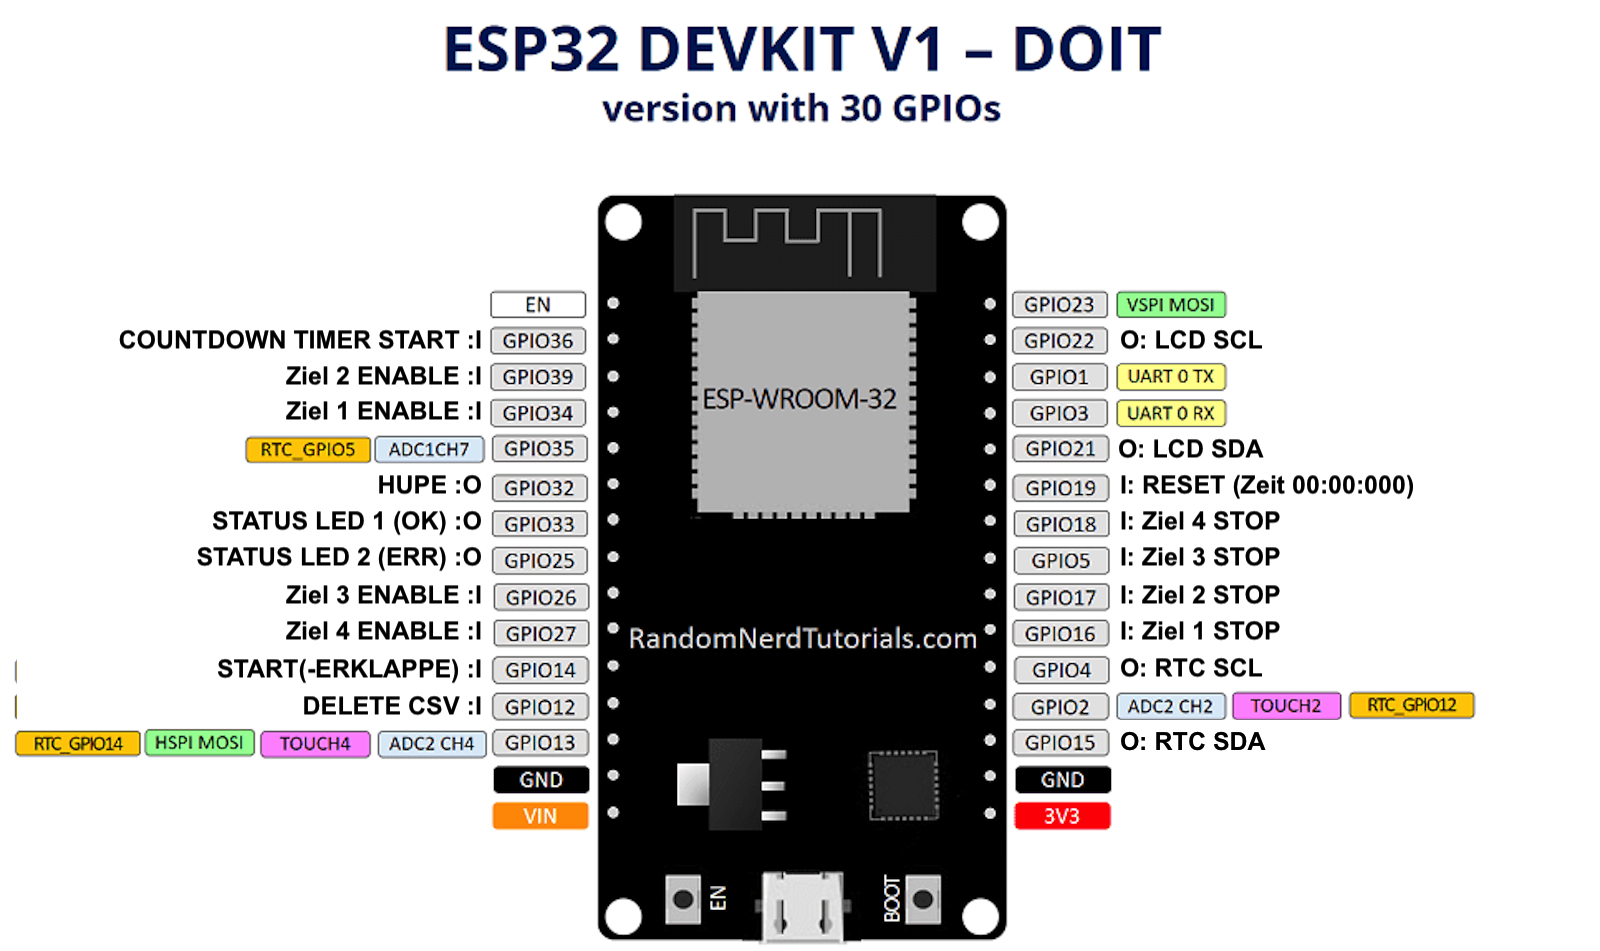
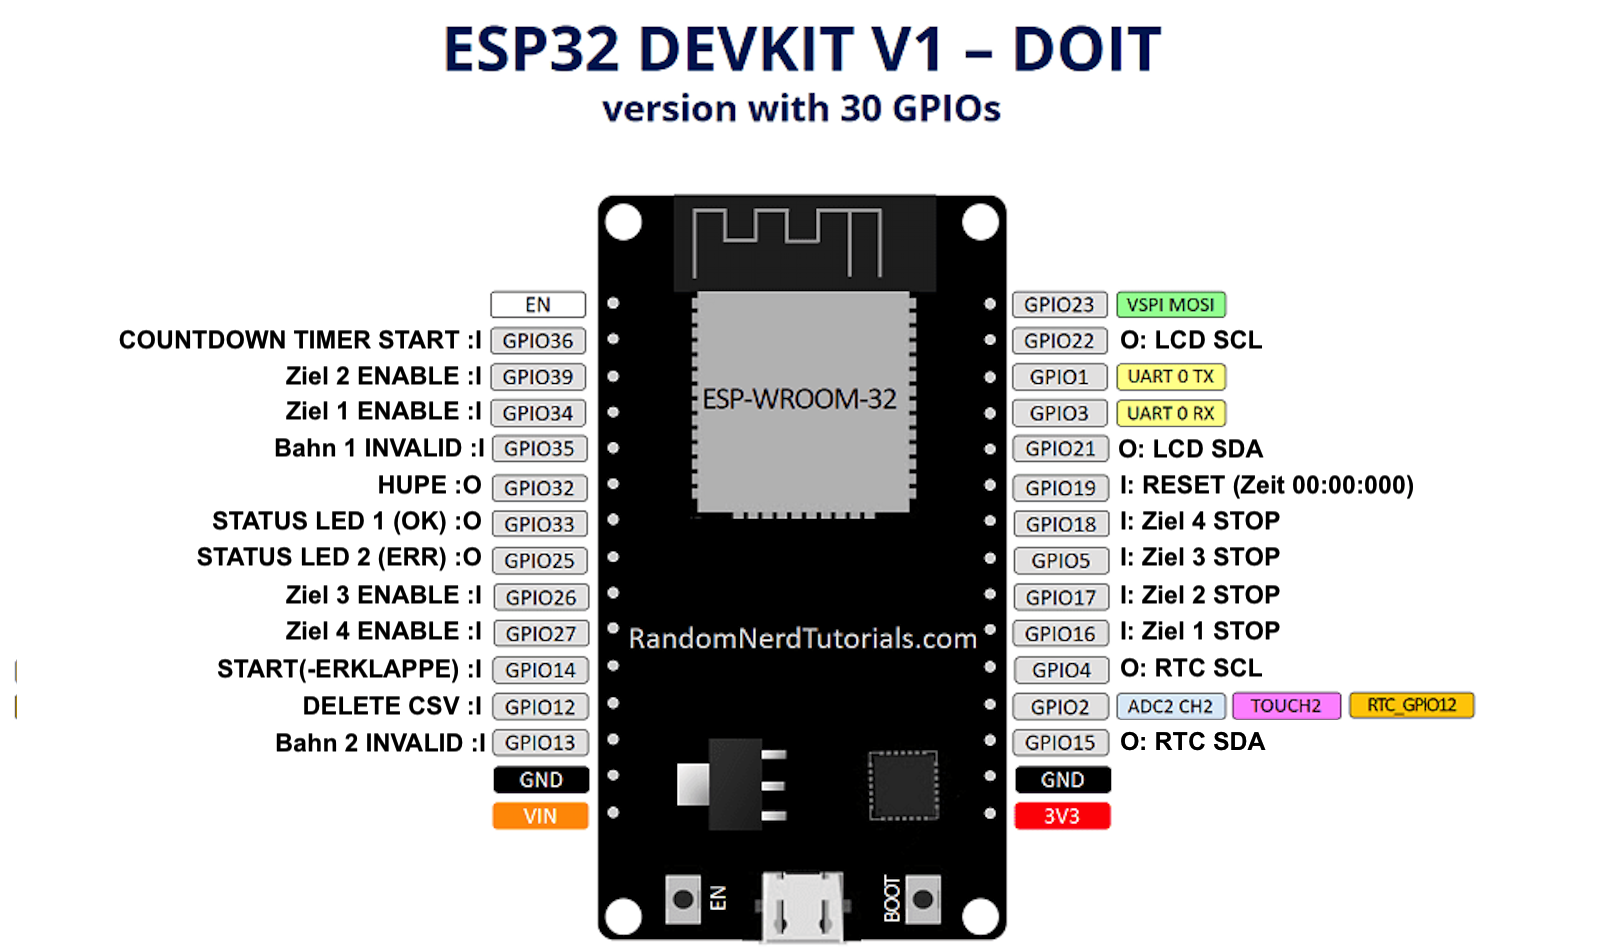
code changes

Changed region(s): [[0.0, 0.7624, 0.3125, 0.8233], [0.1562, 0.4574, 0.3125, 0.4879]]

diff --git a/Web_HTML.h b/Web_HTML.h
@@ -20,10 +20,29 @@ const char HTTP_DEFAULT[] PROGMEM = R"=====(
       </table>
      </div> 
       <hr />
-      <div><form action="/" method="post">
+      <div>
+        <table>
+          <tr>
+            <td>
+              <form onsubmit="return confirm('Bahn I ungültig?');" action="/" method="post">
+              <button class='redbtn' name='btnBahn1Invalid' value='1' type='submit'>Bahn I ung&uuml;tig?</button></form>
+            </td>
+            <td>
+              <form onsubmit="return confirm('Bahn II ungültig?');" action="/" method="post">
+              <button class='redbtn' name='btnBahn2Invalid' value='1' type='submit'>Bahn II ung&uuml;tig?</button></form>
+            </td>
+          </tr>
+        </table>
+      </div>
+      <hr />
+      <div><form onsubmit="return confirm('Zeiten zurücksetzen?');" action="/" method="post">
       <button class='redbtn' name='btnReset' value='1' type='submit'>Zeit Reset</button></form></div>
       <hr />
-      <div></div>
+      <div><form action="/" method="post">
+      <button class='yellowbtn' name='btn5minCountdown' value='1' type='submit'>5 min. Countdown</button></form></div>
+      <hr />
+      <div>
+      </div>
       <div><input class='lnkbtn' type='button' value='Uhrzeit stellen' onclick="window.location.href='/setTime'" /></div>
       <hr/>
        <div></div>

diff --git a/Web.h b/Web.h
@@ -92,6 +92,27 @@ void defaultHtml(AsyncWebServerRequest *request) {
     resetPressed = (p->value() == "1");
   }
 
+
+  if (request->hasParam("btnBahn1Invalid", true)) {
+    AsyncWebParameter* p = request->getParam("btnBahn1Invalid", true);
+    if (p->value() == "1") invalidateBahn(1);
+  }
+
+  if (request->hasParam("btnBahn2Invalid", true)) {
+    AsyncWebParameter* p = request->getParam("btnBahn2Invalid", true);
+    if (p->value() == "1") invalidateBahn(2);
+  }
+
+  if (request->hasParam("btn5minCountdown", true)) {
+    AsyncWebParameter* p = request->getParam("btn5minCountdown", true);
+    if (p->value() == "1") {
+      if (activeRunningCount == 0) {
+        showResultOnLEDPanel = false;
+        sendUdp("timerstart" + String(COUNTDOWNTIMER_SECONDS));
+      }
+    }
+  }
+
   if (request->hasParam("filename")) {
     if (request->hasArg("download")) {
       Serial.println("Download Filename: " + request->arg("filename"));
@@ -111,6 +132,10 @@ void initWebServer() {
     request->send(200, "text/plain", "rebooting");
     delay(100);
     ESP.restart();
+  });
+
+  webServer.on("/check", HTTP_GET, [](AsyncWebServerRequest * request) {
+    request->send(200, "text/plain", "ok");
   });
 
   webServer.on("/deletecsv", HTTP_GET, [](AsyncWebServerRequest * request) {

diff --git a/ISR.h b/ISR.h
@@ -41,10 +41,20 @@ void IRAM_ATTR isrTimer() {
   timerPressed = true;
 }
 
+void IRAM_ATTR isrBahn1Invalid() {
+  invalidateBahn(1);
+}
+
+void IRAM_ATTR isrBahn2Invalid() {
+  invalidateBahn(2);
+}
+
 void initISR() {
   attachInterrupt(START_PIN, isrStart, FALLING);
   attachInterrupt(RESET_PIN, isrReset, FALLING);
   attachInterrupt(TIMER_PIN, isrTimer, FALLING);
+  attachInterrupt(BAHN1_INVALID, isrBahn1Invalid, FALLING);
+  attachInterrupt(BAHN2_INVALID, isrBahn2Invalid, FALLING);
   attachInterrupt(ZIEL1_STOP_PIN, isrZiel1Stop, FALLING);
   attachInterrupt(ZIEL2_STOP_PIN, isrZiel2Stop, FALLING);
   attachInterrupt(ZIEL3_STOP_PIN, isrZiel3Stop, FALLING);

diff --git a/HelpFunctions.h b/HelpFunctions.h
@@ -1,5 +1,18 @@
+//
+// 2018-11-22 jp112sdl Creative Commons - http://creativecommons.org/licenses/by-nc-sa/3.0/de/
+//
+
 #ifndef __HELPFUNCTIONS__H_
 #define __HELPFUNCTIONS__H_
+
+void invalidateBahn(uint8_t bahn) {
+  Bahn[bahn - 1].Valid = false;
+
+  Ziel[((bahn - 1) * 2)].isRunning = false;
+  Ziel[((bahn - 1) * 2) + 1].isRunning = false;
+  Ziel[((bahn - 1) * 2)].StopMillis = startMillis;
+  Ziel[((bahn - 1) * 2) + 1].StopMillis = startMillis;
+}
 
 static inline String millis2Anzeige(unsigned long _millis) {
   uint16_t millisekunde = _millis % 1000;

diff --git a/UDP.h b/UDP.h
@@ -1,17 +1,18 @@
-/*
- * UDP.h
- *
- *  Created on: 27 Jan 2019
- *      Author: pechj
- */
+//
+// 2018-11-22 jp112sdl Creative Commons - http://creativecommons.org/licenses/by-nc-sa/3.0/de/
+//
 
 #ifndef __UDP_H_
 #define __UDP_H_
 
 void sendUdp(String cmd) {
+  Serial.println("sendUdp: "+cmd);
+  for (uint8_t i = 0; i < UDPSENDCOUNT; i++) {
     UDPClient.UDP.beginPacket(LEDPanel_IP, UDPPORT);
     UDPClient.UDP.print(cmd.c_str());
     UDPClient.UDP.endPacket();
+    delay(1);
+  }
 }
 
 #endif

diff --git a/Web_CSS.h b/Web_CSS.h
@@ -34,7 +34,7 @@ input[type=text] {
 }
 
 .tdl {
-  width: 1px;
+  text-align: left;
 }
 
 input.lnkbtn {
@@ -103,6 +103,10 @@ body {
 
 .redbtn {
   background-color: #ff0000;
+} 
+
+.yellowbtn {
+  background-color: #f47d42;
 } 
   
 table {
